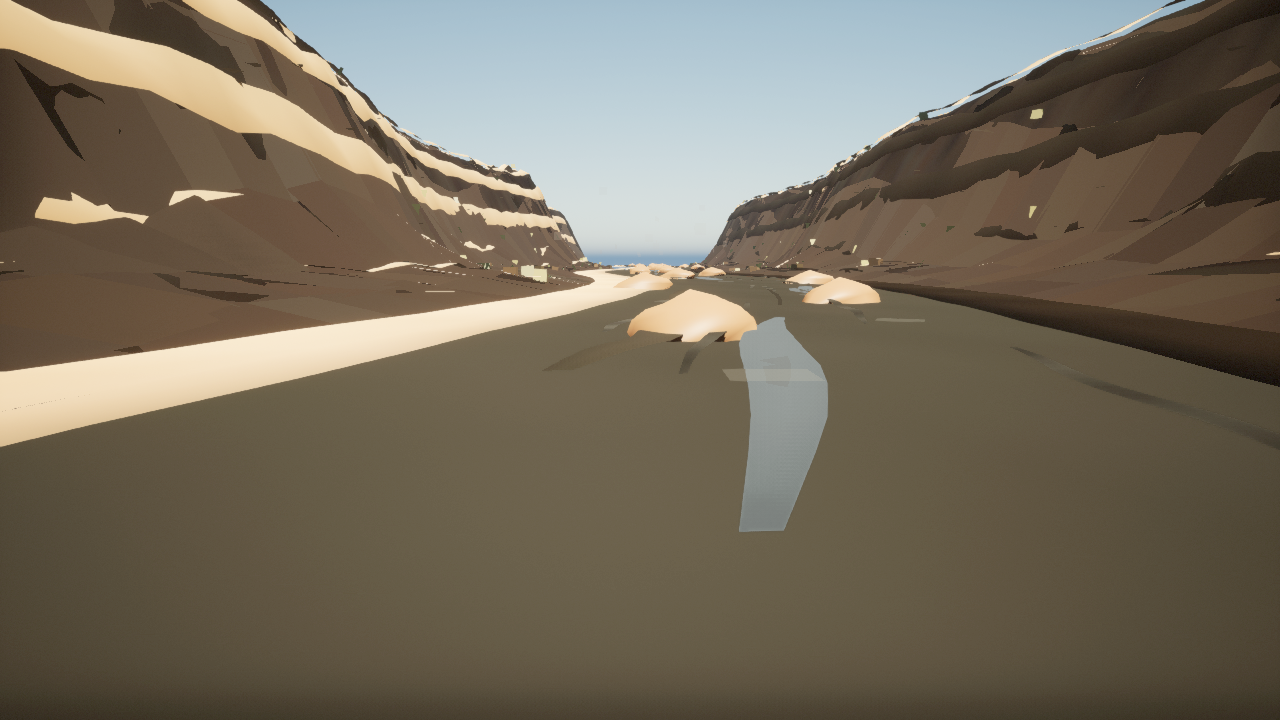
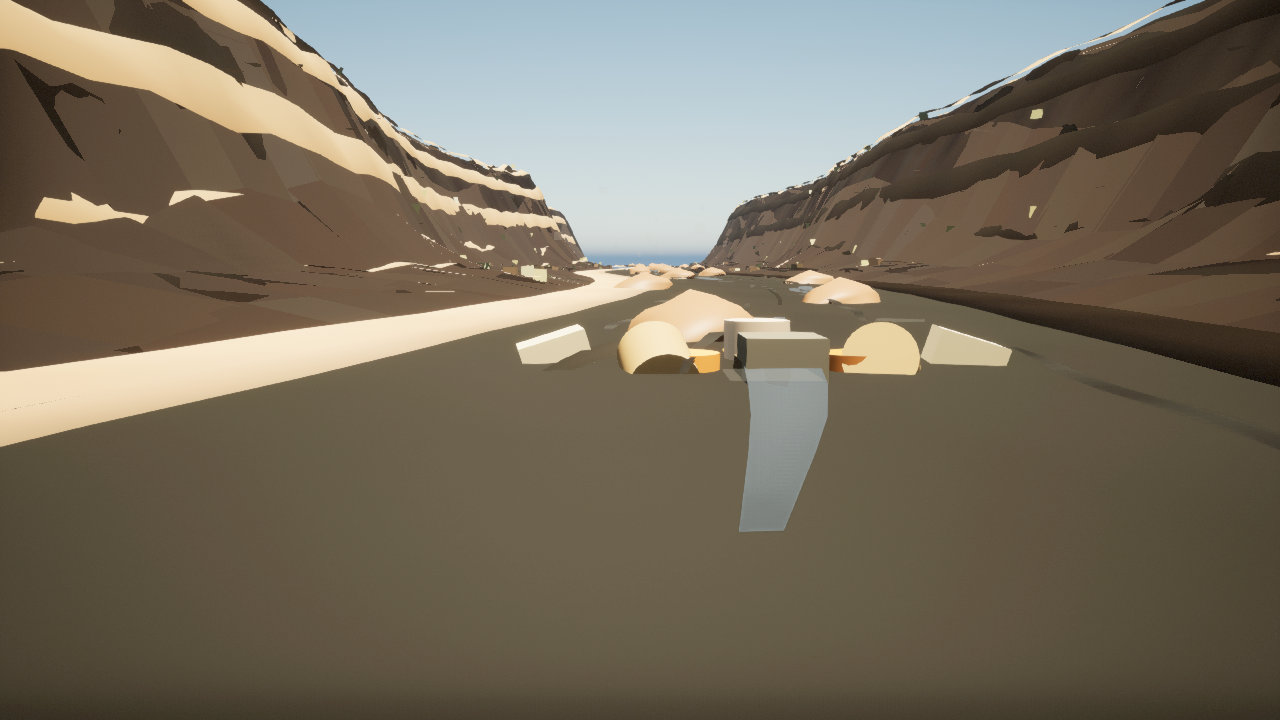
Add guide-seat raft foreground previews

Changed region(s): [[0.4062, 0.4278, 0.8125, 0.5194]]

diff --git a/unreal/Plugins/RaftSim/Source/RaftSimEditor/Private/RaftSimEditorModule.cpp b/unreal/Plugins/RaftSim/Source/RaftSimEditor/Private/RaftSimEditorModule.cpp
@@ -287,7 +287,7 @@ TArray<FRaftSimEnvironmentPreviewSpec> GetEnvironmentPreviewSpecs()
     SouthFork.ElevationSample =
         TEXT("physics/data/real_world/south_fork_american_chili_bar/terrain/production_import_pilot/3dep_tiles");
     SouthFork.SourceDrapeDescription =
-        TEXT("stitched South Fork production-import pilot source drape generated from four official USDA/APFO NAIP 2048px tiles, plus stitched USGS 3DEP pilot DEM relief and a review-gated 2017px heightfield candidate sampled into bank and valley preview geometry; pilot source water/vegetation masks are sampled into terrain color, source-aware bank breakup patches, biome-specific deadfall/log/grass/root ecology props, first-party biome foliage silhouette cards, lit water variation, flow-band depth texture ribbons, flow-aware surface chop/turbidity patches, deterministic wet-rock, talus, foliage, understory, mask-aware ground-cover cards, and river-specific atmospheric backdrop cards; all pilot derivatives remain review-gated until metadata review, mosaic/clip, hydrologic conditioning, channel burning, masks, and guide/geospatial approval pass; rocks, foliage, water, foam, raft, and lighting still include first-party procedural proxy layers");
+        TEXT("stitched South Fork production-import pilot source drape generated from four official USDA/APFO NAIP 2048px tiles, plus stitched USGS 3DEP pilot DEM relief and a review-gated 2017px heightfield candidate sampled into bank and valley preview geometry; pilot source water/vegetation masks are sampled into terrain color, source-aware bank breakup patches, biome-specific deadfall/log/grass/root ecology props, first-party biome foliage silhouette cards, lit water variation, flow-band depth texture ribbons, flow-aware surface chop/turbidity patches, deterministic wet-rock, talus, foliage, understory, mask-aware ground-cover cards, guide-seat raft/oar foreground proxies, and river-specific atmospheric backdrop cards; all pilot derivatives remain review-gated until metadata review, mosaic/clip, hydrologic conditioning, channel burning, masks, and guide/geospatial approval pass; rocks, foliage, water, foam, raft, and lighting still include first-party procedural proxy layers");
     SouthFork.FlowBandId = TEXT("median_runnable");
     SouthFork.FlowBandDisplayName = TEXT("Median Runnable / Summer Commercial");
     SouthFork.FlowBandSource = TEXT("physics/data/real_world/south_fork_american_chili_bar/flow_presets.json");
@@ -327,7 +327,7 @@ TArray<FRaftSimEnvironmentPreviewSpec> GetEnvironmentPreviewSpecs()
     Colorado.ElevationSample =
         TEXT("physics/data/real_world/colorado_river_grand_canyon_rowing/terrain/production_import_pilot/3dep_tiles");
     Colorado.SourceDrapeDescription =
-        TEXT("stitched Colorado/Lees Ferry production-import pilot source drape generated from four official USDA/APFO NAIP 2048px tiles, plus stitched USGS 3DEP pilot DEM relief and a review-gated 2017px heightfield candidate sampled into canyon bank preview geometry; pilot source water/vegetation masks are sampled into terrain color, source-aware bank breakup patches, biome-specific sparse deadfall/grass/root ecology props, first-party sparse desert scrub silhouettes, lit water variation, flow-band depth texture ribbons, flow-aware surface chop/turbidity patches, deterministic wet-rock, talus, sparse scrub, boulder placement, mask-aware canyon ground-cover cards, and river-specific atmospheric backdrop cards; all pilot derivatives remain review-gated until metadata review, mosaic/clip, river-mile stationing, hydrologic conditioning, release-aware masks, and guide/oarsman approval pass; rocks, foliage, water, foam, raft, and lighting still include first-party procedural proxy layers");
+        TEXT("stitched Colorado/Lees Ferry production-import pilot source drape generated from four official USDA/APFO NAIP 2048px tiles, plus stitched USGS 3DEP pilot DEM relief and a review-gated 2017px heightfield candidate sampled into canyon bank preview geometry; pilot source water/vegetation masks are sampled into terrain color, source-aware bank breakup patches, biome-specific sparse deadfall/grass/root ecology props, first-party sparse desert scrub silhouettes, lit water variation, flow-band depth texture ribbons, flow-aware surface chop/turbidity patches, deterministic wet-rock, talus, sparse scrub, boulder placement, mask-aware canyon ground-cover cards, guide-seat raft/oar foreground proxies, and river-specific atmospheric backdrop cards; all pilot derivatives remain review-gated until metadata review, mosaic/clip, river-mile stationing, hydrologic conditioning, release-aware masks, and guide/oarsman approval pass; rocks, foliage, water, foam, raft, and lighting still include first-party procedural proxy layers");
     Colorado.FlowBandId = TEXT("moderate_release_planning");
     Colorado.FlowBandDisplayName = TEXT("Moderate Release Planning");
     Colorado.FlowBandSource = TEXT("physics/data/real_world/colorado_river_grand_canyon_rowing/flow_presets.json");
@@ -373,7 +373,7 @@ TArray<FRaftSimEnvironmentPreviewSpec> GetEnvironmentPreviewSpecs()
     Pacuare.ElevationSample =
         TEXT("physics/data/real_world/pacuare_river_costa_rica/terrain/copernicus_dem_glo30_N09_W084.tif; physics/data/real_world/pacuare_river_costa_rica/terrain/copernicus_dem_glo30_N10_W084.tif");
     Pacuare.SourceDrapeDescription =
-        TEXT("review-gated Pacuare production-import derivative placeholders generated from the selected NASA GIBS MODIS/Terra true-color seed and Copernicus DEM GLO-30 relief, normalized into a 4096px source drape, 2048px DEM relief, 2017px heightfield candidate, and 2048px water/vegetation masks; these remain coarse/cloudy proxy inputs until higher-resolution cloud-screened imagery, local hydrology/hydrography, protected-area review, and guide/outfitter validation are attached; first-party procedural rainforest leaf-litter, wet-rock, talus, mist, source-aware bank breakup patches, biome-specific deadfall/log/grass/root ecology props, rainforest canopy/vine silhouette cards, waterfall curtain/plunge-mist proxy layers, lit water variation, flow-band depth texture ribbons, flow-aware surface chop/turbidity patches, dense mask-aware ground-cover/canopy cards, and humid atmospheric backdrop cards remain rights-safe proxy dressing; rocks, foliage, water, foam, raft, and lighting still include first-party procedural proxy layers");
+        TEXT("review-gated Pacuare production-import derivative placeholders generated from the selected NASA GIBS MODIS/Terra true-color seed and Copernicus DEM GLO-30 relief, normalized into a 4096px source drape, 2048px DEM relief, 2017px heightfield candidate, and 2048px water/vegetation masks; these remain coarse/cloudy proxy inputs until higher-resolution cloud-screened imagery, local hydrology/hydrography, protected-area review, and guide/outfitter validation are attached; first-party procedural rainforest leaf-litter, wet-rock, talus, mist, source-aware bank breakup patches, biome-specific deadfall/log/grass/root ecology props, rainforest canopy/vine silhouette cards, waterfall curtain/plunge-mist proxy layers, lit water variation, flow-band depth texture ribbons, flow-aware surface chop/turbidity patches, dense mask-aware ground-cover/canopy cards, guide-seat raft/oar foreground proxies, and humid atmospheric backdrop cards remain rights-safe proxy dressing; rocks, foliage, water, foam, raft, and lighting still include first-party procedural proxy layers");
     Pacuare.FlowBandId = TEXT("rainfed_runnable_planning");
     Pacuare.FlowBandDisplayName = TEXT("Rain-Fed Runnable Planning");
     Pacuare.FlowBandSource = TEXT("physics/data/real_world/pacuare_river_costa_rica/flow_presets.json");
@@ -3211,37 +3211,80 @@ void AddPreviewRaftForeground(UWorld* World, const FRaftSimEnvironmentPreviewSpe
         }
     };
 
-    const float BaseX = -4920.0f;
+    const float BaseX = -4100.0f;
     const float CenterY = GetPreviewRiverCenterY(Spec, BaseX);
-    const float Z = 30.0f;
+    const float Z = -10.0f;
+    const FLinearColor TubeColor = FMath::Lerp(Spec.RaftColor, FLinearColor(0.95f, 0.60f, 0.18f), 0.24f);
+    const FLinearColor TubeShadowColor = ScalePreviewColor(TubeColor, 0.62f);
+    const FLinearColor FrameColor = Spec.bDesertCanyon ? FLinearColor(0.12f, 0.095f, 0.065f) : FLinearColor(0.065f, 0.075f, 0.058f);
+    const FLinearColor OarShaftColor = Spec.bDesertCanyon ? FLinearColor(0.44f, 0.31f, 0.16f) : FLinearColor(0.50f, 0.33f, 0.17f);
+    const FLinearColor OarBladeColor = Spec.bDesertCanyon ? FLinearColor(0.76f, 0.68f, 0.47f) : FLinearColor(0.86f, 0.52f, 0.22f);
+    const FLinearColor BowLineColor = FMath::Lerp(FLinearColor(0.78f, 0.72f, 0.58f), TubeColor, 0.18f);
+
     AddRaftProxyPart(
         CylinderMesh,
         FString::Printf(TEXT("RaftSim_ForegroundRaft_LeftTube_%s"), *Spec.RiverId),
-        FVector(BaseX + 180.0f, CenterY - 92.0f, Z),
+        FVector(BaseX + 40.0f, CenterY - 118.0f, Z),
         FRotator(0.0f, 90.0f, 0.0f),
-        FVector(0.38f, 0.38f, 2.9f),
-        Spec.RaftColor);
+        FVector(0.20f, 0.20f, 1.62f),
+        TubeColor);
     AddRaftProxyPart(
         CylinderMesh,
         FString::Printf(TEXT("RaftSim_ForegroundRaft_RightTube_%s"), *Spec.RiverId),
-        FVector(BaseX + 180.0f, CenterY + 92.0f, Z),
+        FVector(BaseX + 40.0f, CenterY + 118.0f, Z),
         FRotator(0.0f, 90.0f, 0.0f),
-        FVector(0.38f, 0.38f, 2.9f),
-        Spec.RaftColor);
+        FVector(0.20f, 0.20f, 1.62f),
+        TubeShadowColor);
     AddRaftProxyPart(
         CylinderMesh,
         FString::Printf(TEXT("RaftSim_ForegroundRaft_Bow_%s"), *Spec.RiverId),
-        FVector(BaseX + 470.0f, CenterY, Z + 3.0f),
+        FVector(BaseX + 235.0f, CenterY, Z + 2.0f),
         FRotator(90.0f, 0.0f, 0.0f),
-        FVector(0.36f, 0.36f, 1.9f),
-        Spec.RaftColor);
+        FVector(0.18f, 0.18f, 1.38f),
+        TubeColor);
     AddRaftProxyPart(
         CubeMesh,
         FString::Printf(TEXT("RaftSim_ForegroundRaft_Floor_%s"), *Spec.RiverId),
-        FVector(BaseX + 92.0f, CenterY, 11.0f),
+        FVector(BaseX - 18.0f, CenterY, -12.0f),
         FRotator::ZeroRotator,
-        FVector(1.35f, 0.42f, 0.04f),
-        FLinearColor(0.08f, 0.085f, 0.075f));
+        FVector(0.66f, 0.36f, 0.022f),
+        FrameColor);
+    AddRaftProxyPart(
+        CubeMesh,
+        FString::Printf(TEXT("RaftSim_ForegroundRaft_FrameBar_%s"), *Spec.RiverId),
+        FVector(BaseX - 62.0f, CenterY, 22.0f),
+        FRotator::ZeroRotator,
+        FVector(0.045f, 0.84f, 0.018f),
+        FLinearColor(0.18f, 0.18f, 0.15f));
+
+    const float OarLengthScale = Spec.bDesertCanyon ? 2.05f : 1.78f;
+    const float OarBladeOffset = Spec.bDesertCanyon ? 300.0f : 260.0f;
+    for (int32 OarIndex = 0; OarIndex < 2; ++OarIndex)
+    {
+        const float Side = (OarIndex == 0) ? -1.0f : 1.0f;
+        AddRaftProxyPart(
+            CylinderMesh,
+            FString::Printf(TEXT("RaftSim_ForegroundRaft_OarShaft_%d_%s"), OarIndex, *Spec.RiverId),
+            FVector(BaseX + 28.0f, CenterY + Side * 154.0f, 18.0f + 2.0f * static_cast<float>(OarIndex)),
+            FRotator(Side > 0.0f ? 2.5f : -2.5f, 94.0f + Side * 15.0f, Side * 68.0f),
+            FVector(0.023f, 0.023f, OarLengthScale),
+            OarShaftColor);
+        AddRaftProxyPart(
+            CubeMesh,
+            FString::Printf(TEXT("RaftSim_ForegroundRaft_OarBlade_%d_%s"), OarIndex, *Spec.RiverId),
+            FVector(BaseX + 138.0f, CenterY + Side * OarBladeOffset, 6.0f),
+            FRotator(0.0f, 10.0f * Side, Side > 0.0f ? 17.0f : -17.0f),
+            FVector(0.12f, 0.30f, 0.014f),
+            OarBladeColor);
+    }
+
+    AddRaftProxyPart(
+        CylinderMesh,
+        FString::Printf(TEXT("RaftSim_ForegroundRaft_BowLine_%s"), *Spec.RiverId),
+        FVector(BaseX + 172.0f, CenterY, 26.0f),
+        FRotator(0.0f, 90.0f, 0.0f),
+        FVector(0.012f, 0.012f, 0.82f),
+        BowLineColor);
 }
 
 void AddPreviewLightRig(UWorld* World, const FRaftSimEnvironmentPreviewSpec& Spec)
@@ -3828,6 +3871,7 @@ bool BuildPreviewMapForSpec(const FRaftSimEnvironmentPreviewSpec& Spec, FString&
         }
     }
 
+    AddPreviewRaftForeground(World, Spec, CubeMesh, CylinderMesh);
     AddPreviewCameraAndStart(World, Spec);
     return SavePreviewWorld(World, Spec.MapPackagePath, OutSummary);
 }
@@ -4868,7 +4912,7 @@ bool FRaftSimEditorModule::CapturePhotorealEnvironmentPreviews(FString& OutSumma
             TEXT("RaftSim_GuideSeat_DownstreamCaptureCamera"),
             TEXT("guide_seat_downstream"),
             TEXT("guide-seat downstream warm-up"),
-            true,
+            false,
             OutSummary);
         const bool bGuideSeatCaptured = CapturePreviewImageForSpec(
             Spec,
@@ -4877,7 +4921,7 @@ bool FRaftSimEditorModule::CapturePhotorealEnvironmentPreviews(FString& OutSumma
             TEXT("RaftSim_GuideSeat_DownstreamCaptureCamera"),
             TEXT("guide_seat_downstream"),
             TEXT("guide-seat downstream"),
-            true,
+            false,
             OutSummary);
         const bool bRiverEyeCaptured = CapturePreviewImageForSpec(
             Spec,

diff --git a/docs/photoreal-river-environment-production-plan.md b/docs/photoreal-river-environment-production-plan.md
@@ -98,7 +98,7 @@ Initial source slice:
 - First review-gated source water/vegetation mask previews now exist for all three active drapes: South Fork and Colorado masks are derived from the 1024px USDA/APFO NAIP samples, and Pacuare masks are derived from the 1024px NASA GIBS/Copernicus source drape. The masks are sampled by Unreal terrain and source-drape coloring, but they remain deterministic preview masks until reviewed orthomosaics/satellite scenes, hydrography, bank polygons, cloud/shadow checks, and guide/geospatial approval are complete.
 - A first-party procedural detail pass now adds terrain-conforming canyon strata, rainforest/foothill leaf-litter bands, wet-rock accents, and deterministic talus/pebble bars for all three preview maps. These layers are rights-safe proxy dressing generated from code and engine primitives; they must be replaced or promoted only after production asset, material, and guide-review gates pass.
 - The Unreal preview generator now samples each active aerial/source drape directly into higher-density terrain vertex colors and softens the separate drape overlay, reducing hard rectangular patchwork in the review captures while keeping the inputs review-gated. The overlay is now further muted in the generated maps, and deterministic boulder-contact foam laces tie source-aware rocks into the current without pretending to be production whitewater simulation.
-- The river ribbon mesh keeps `M_RaftSim_VertexColorWaterPreview` active, a first-party procedural lit vertex-color water material with muted shallow/deep tinting and subtle along-flow variation. Direct reuse of installed Unreal Water/WaterAdvanced plugin materials was evaluated and rejected for this generated ProceduralMeshComponent ribbon after producing near-black downstream captures; `water_material_candidate_review.json` records that decision and keeps future WaterBody/WaterMesh integration as a separate validation task. Crude foreground raft proxies are disabled in generated preview maps and hidden in capture automation, preview cameras use fixed manual exposure, and capture automation performs a warm-up render before pixel readback so water review is not polluted by placeholder geometry, exposure shifts, or first-frame material warm-up artifacts until production raft art is ready. This improves the current preview screenshots but does not replace the future production water shader, reflections, solver-driven surface detail, spray, mist, or foam.
+- The river ribbon mesh keeps `M_RaftSim_VertexColorWaterPreview` active, a first-party procedural lit vertex-color water material with muted shallow/deep tinting and subtle along-flow variation. Direct reuse of installed Unreal Water/WaterAdvanced plugin materials was evaluated and rejected for this generated ProceduralMeshComponent ribbon after producing near-black downstream captures; `water_material_candidate_review.json` records that decision and keeps future WaterBody/WaterMesh integration as a separate validation task. The generated preview maps now include low-footprint first-party guide-seat raft and oar foreground proxies for player-view context, while river-eye captures hide those foreground actors so terrain, water, and corridor quality can still be reviewed cleanly. Preview cameras use fixed manual exposure, and capture automation performs a warm-up render before pixel readback so water review is not polluted by exposure shifts or first-frame material warm-up artifacts. This improves the current preview screenshots but does not replace the future production water shader, reflections, solver-driven surface detail, spray, mist, foam, or approved raft/oar foreground art.
 - The preview generator now adds deterministic mask-aware ground-cover and canopy-card actors along the banks for all three rivers. These source-mask-biased first-party cards add riparian, canyon scrub, and rainforest texture without importing third-party art, but they remain proxy dressing until biome-specific foliage assets, instancing budgets, and guide-reviewed sightline cutouts are complete.
 - The UE 5.8 photoreal preview automation scopes `Editor.CheckForWorldGCLeaksAreFatal=0` only around generated-map/capture batches. This prevents commandlet-style startup `Untitled` world cleanup diagnostics from crashing the run while still logging the diagnostics and restoring the editor CVar afterward.
 - `river_flow_visual_bands.json` now records the preview-only flow-band visual contract for South Fork, Colorado, and Pacuare. The active generated previews render the South Fork `median_runnable`, Colorado `moderate_release_planning`, and Pacuare `rainfed_runnable_planning` bands by adjusting river width, water level, foam scale, wet-bank width, and current-cue density; regenerated capture manifests must record the selected band and visual parameters. These are source-backed visual defaults, not solver authority or complete seasonal variant captures.

diff --git a/TODO.md b/TODO.md
@@ -949,6 +949,7 @@ This milestone turns the three runnable river targets into complete, reviewable,
 - [x] Replace rectangular preview foam marks with curved procedural foam tongues, wave highlights, and eddy-line ribbons that follow each river centerline, and compute normals on the wavy river ribbon mesh so water has more in-engine surface depth. This improves visual readability but remains placeholder VFX before production water materials, spray, mist, and foam simulation.
 - [x] Add subtle deterministic current-streak proxy ribbons to the generated Unreal river surfaces for South Fork, Colorado, and Pacuare, with refreshed guide-seat and river-eye captures. This reduces the single-flat-ribbon read slightly while keeping production water materials, reflections, spray, mist, foam, and solver-driven surface detail open.
 - [x] Add procedural vertex-color water gradients to the generated river ribbons for all three previews, backed by `M_RaftSim_VertexColorWaterPreview`, with cross-river shallow/deep tinting, subtle along-flow variation, fixed manual capture exposure, warm-up captures before pixel readback, and crude foreground raft proxies hidden/disabled for cleaner guide-seat water review until production raft art is ready. This improves the current screenshot read without replacing the future production water shader, reflections, solver-driven surface detail, foam, spray, or mist.
+- [x] Add first-party guide-seat raft and oar foreground proxies to the generated Unreal preview maps, with guide-seat captures showing a low-footprint player-view foreground and river-eye captures hiding the proxies for clean environment review. This adds reviewable gameplay context without closing the production-approved raft/oar art gate.
 - [x] Add deterministic vertex-color terrain variation and wet-bank/shoreline dressing to the generated Unreal preview maps, backed by `M_RaftSim_VertexColorPreview`, with refreshed guide-seat and river-eye captures for all three rivers. This improves source-aware bank readability, but the captures remain proxy evidence until production terrain materials, water shaders, wet rocks, and biome assets are imported or generated.
 - [x] Add a first-party procedural source-detail pass to the generated Unreal previews: terrain-conforming canyon strata, rainforest/foothill leaf-litter bands, wet-rock accents, and deterministic talus/pebble bars are generated from code and engine primitives for all three rivers. This is rights-safe proxy dressing, not production photogrammetry or licensed environment art.
 - [x] Replace primitive sphere/cylinder foliage in the generated previews with PCG sample tree and seedling meshes where available, keeping primitive foliage as a fallback and moving the first tree instances downstream so guide-seat captures are not clipped. This gives South Fork and Pacuare more believable corridor silhouettes, while production biome-specific foliage assets remain required.